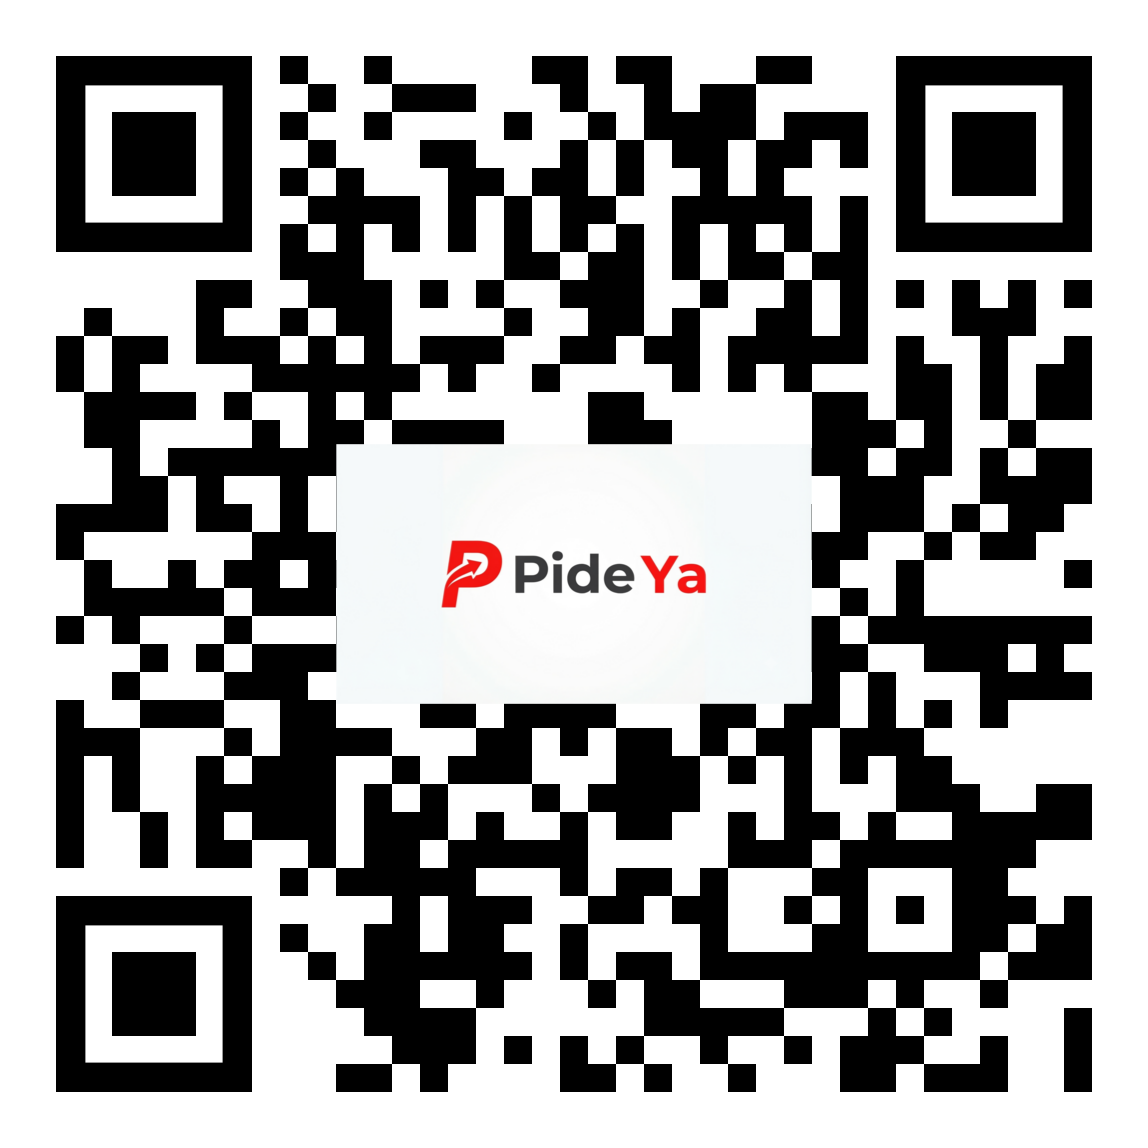
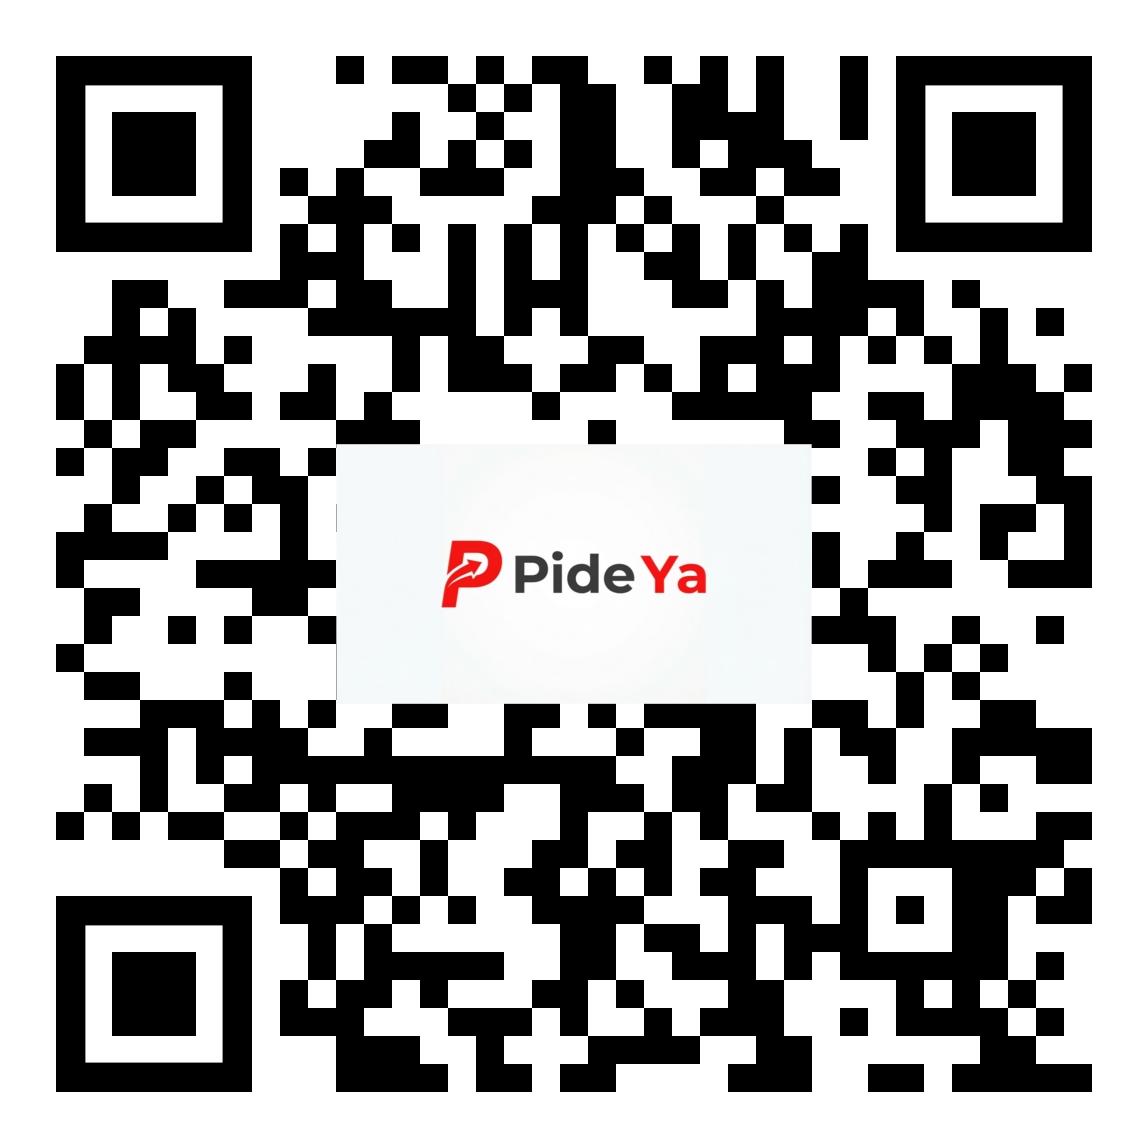
Add files via upload

Changed region(s): [[0.0305, 0.0305, 0.9756, 0.9756]]

diff --git a/index.html b/index.html
@@ -6,13 +6,13 @@
     
     <!-- Configuración Avanzada Open Graph (OG Share) - Conecta Card Oficial -->
     <meta property="og:type" content="website" />
-    <meta property="og:url" content="https://demo-cafeteria.pideya.contact/" />
+    <meta property="og:url" content="https://demo-italiana.pideya.contact/" />
     <meta property="og:title" content="RESTAURANTE ITALIANO | PIDE YA" />
-    <meta property="og:description" content="Disfruta del mejor café y repostería artesanal. Explora nuestro menú exclusivo y visítanos con tu CONECTA CARD." />
+    <meta property="og:description" content="Disfruta de las mejores pastas artesanales, pizzas al horno y auténtica cocina italiana. Explora nuestro menú exclusivo y visítanos con tu CONECTA CARD." />
     
     <!-- Infraestructura Multimedia Premium de Imagen de Portada -->
-    <meta property="og:image" content="https://demo-cafeteria.pideya.contact/og_cofee.jpg" />
-    <meta property="og:image:secure_url" content="https://demo-cafeteria.pideya.contact/og_cofee.jpg" />
+    <meta property="og:image" content="https://demo-italiana.pideya.contact/og_italiana.jpg" />
+    <meta property="og:image:secure_url" content="https://demo-italiana.pideya.contact/og_italiana.jpg" />
     <meta property="og:image:type" content="image/jpeg" />
     <meta property="og:image:width" content="1080" />
     <meta property="og:image:height" content="1920" />
@@ -21,6 +21,8 @@
     <link rel="stylesheet" href="style.css" />
     <link rel="stylesheet" href="https://cdnjs.cloudflare.com/ajax/libs/font-awesome/6.4.2/css/all.min.css">
     <link href="https://fonts.googleapis.com/css2?family=Montserrat:wght@400;600;800;900&family=Bebas+Neue&family=Playfair+Display:ital,wght@0,700;1,700&display=swap" rel="stylesheet">
+</head>
+</html>
 
     <!-- Estilos exclusivos para el Asistente Modal Integrado -->
     <style>
